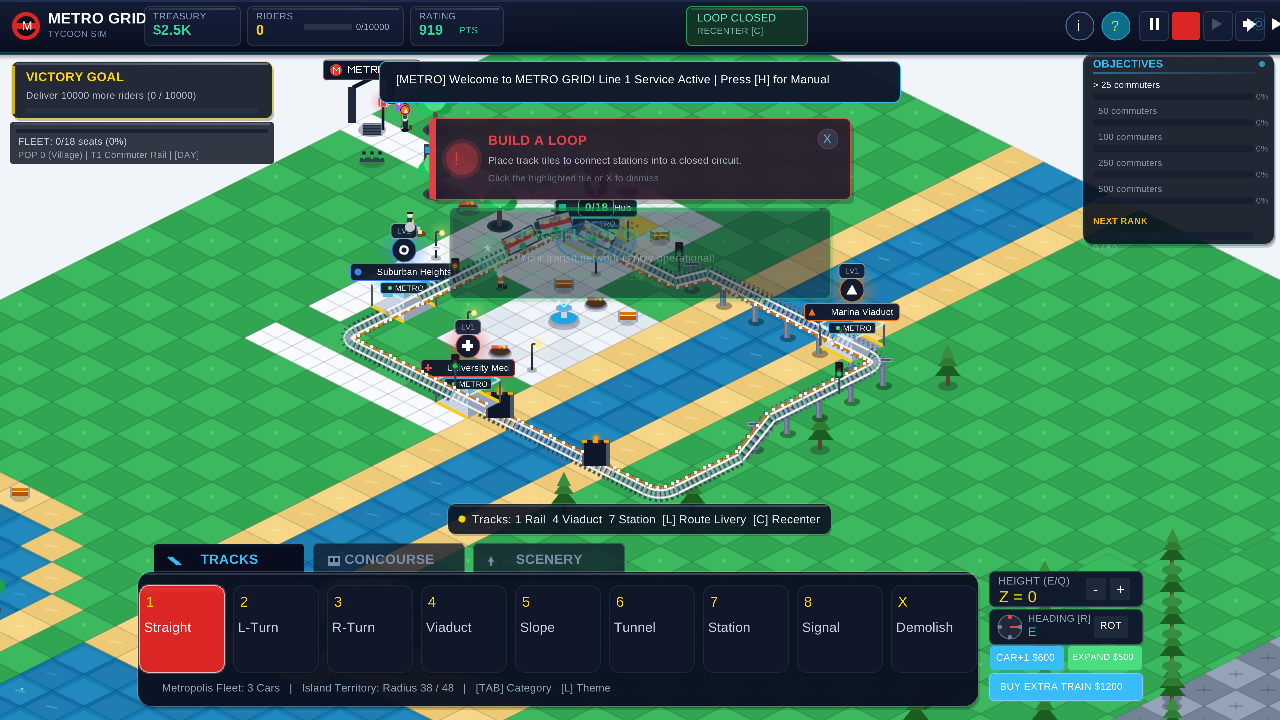
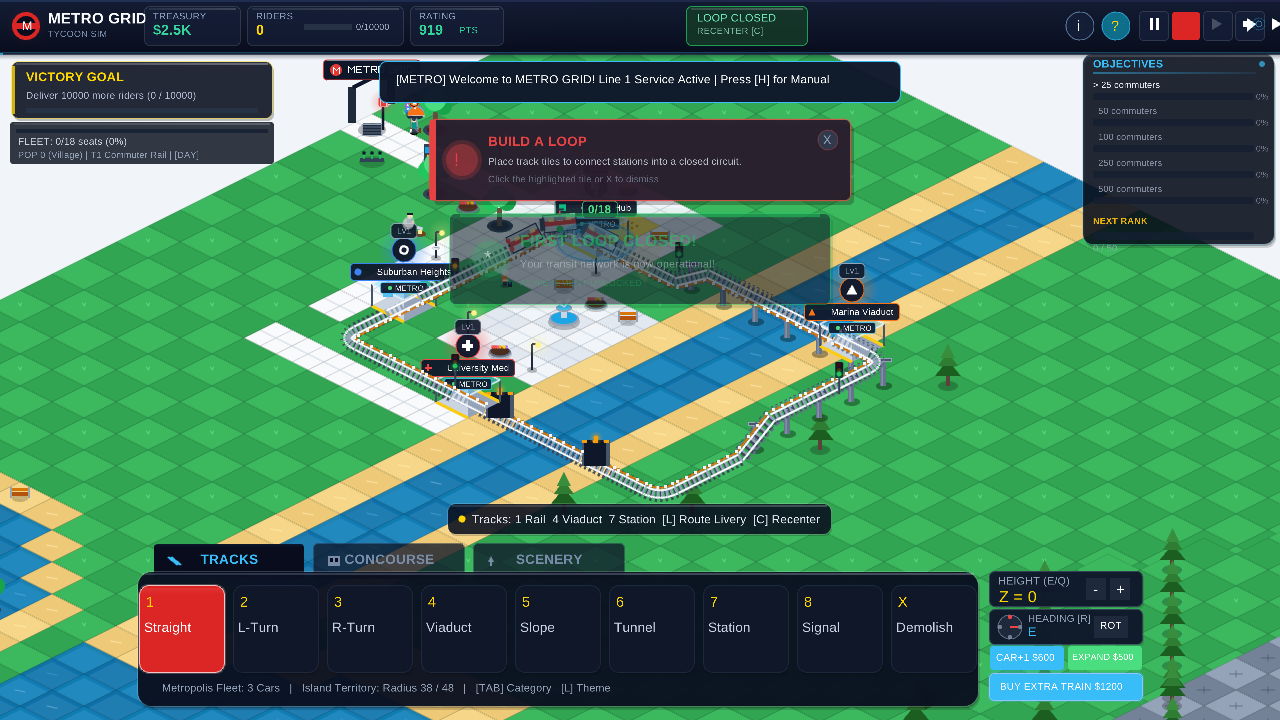
Loop 76: RCT commuter rain umbrellas, dynamic tropical storm weather, and procedural thunder rumble

diff --git a/raylib/src/game.cpp b/raylib/src/game.cpp
@@ -16,8 +16,9 @@ const Game::NaturalEvent Game::EVENTS[] = {
     {"Calm Sunday",      "Peaceful day. Half the riders, but +x2 fare bonus", 25.0f, 0.5f, 2.0f, {100, 200, 255, 255}},
     {"City Festival",    "Festival downtown! x2 riders rush to the party!", 18.0f, 2.0f, 1.2f, {255, 50, 150, 255}},
     {"Train Strike",     "Workers protest! Half riders, half fares for 15s", 15.0f, 0.5f, 0.5f, {200, 50, 50, 255}},
-    {"Tourist Season",   "Tourists flood in! x1.8 riders, x1.3 fares", 22.0f, 1.8f, 1.3f, {50, 200, 100, 255}},
-    {"Late Night Quiet", "After midnight calm. Few riders, but x3 fare bonus", 20.0f, 0.3f, 3.0f, {80, 80, 160, 255}},
+    {"Tourist Season",     "Tourists flood in! x1.8 riders, x1.3 fares", 22.0f, 1.8f, 1.3f, {50, 200, 100, 255}},
+    {"Late Night Quiet",   "After midnight calm. Few riders, but x3 fare bonus", 20.0f, 0.3f, 3.0f, {80, 80, 160, 255}},
+    {"Tropical Rainstorm", "Sudden downpour! Commuters pop umbrellas, +25% transit ridership", 22.0f, 1.7f, 1.3f, {56, 189, 248, 255}},
 };
 
 void Game::Init() {
@@ -2066,26 +2067,37 @@ void Game::Update(float dt) {
     float investedTrains = (float)GetExtraTrainCount() * 1200.0f;
     cachedStats.parkValue = economy.balance + investedTracks + investedStations + investedCars + investedTrains + (float)economy.totalDelivered * 5.0f;
 
-    // 7b. Weather effects: rain during rush hour, cherry blossoms during calm
+    // 7b. Weather effects: rain during rush hour / storm, umbrellas, cherry blossoms during calm
     if (state == STATE_PLAYING && !isPaused) {
+        bool isRaining = rushHourActive || (activeEvent == 6);
+        peeps.SetRaining(isRaining);
+
         static float weatherTimer = 0.0f;
         weatherTimer += dt;
-        if (rushHourActive && weatherTimer > 0.3f) {
-            // Rain during rush hour
-            particles.SpawnRain(GetScreenWidth(), GetScreenHeight(), 8);
+        if (isRaining && weatherTimer > 0.25f) {
+            // Rain particle downpour
+            particles.SpawnRain(GetScreenWidth(), GetScreenHeight(), 10);
             weatherTimer = 0.0f;
-        } else if (!rushHourActive && weatherTimer > 1.5f && parkRating > 70.0f) {
+
+            // Wet rail spray mist when train runs at speed
+            if (train.GetSpeedKmh() > 15.0f) {
+                Vector3 tPos = train.GetLocomotivePos();
+                particles.SpawnSmoke(Vector3{tPos.x, tPos.y, tPos.z * 0.5f}, 1);
+            }
+        } else if (!isRaining && weatherTimer > 1.5f && parkRating > 70.0f) {
             // Cherry blossom petals when rating is good
             particles.SpawnPetals(GetScreenWidth(), GetScreenHeight(), 3);
             weatherTimer = 0.0f;
         }
 
-        // Ambient Soundscape (nature & coastal audio immersion)
+        // Ambient Soundscape (nature, coastal, crickets & thunder audio immersion)
         static float ambientTimer = 0.0f;
         ambientTimer += dt;
         if (ambientTimer >= 5.5f) {
             ambientTimer = 0.0f;
-            if (nightMode) {
+            if (isRaining) {
+                AudioManager::Play(SFX_THUNDER_ROLL, 0.45f);
+            } else if (nightMode) {
                 AudioManager::Play(SFX_NIGHT_CRICKET, 0.28f);
             } else {
                 Vector2 cGrid = Iso::ScreenToGrid(Vector2{(float)GetScreenWidth() * 0.5f, (float)GetScreenHeight() * 0.5f}, cameraPos, zoom, 0.0f);
@@ -2114,8 +2126,12 @@ void Game::Update(float dt) {
                     eventTimer = EVENTS[activeEvent].duration;
                     ShowToast(TextFormat("[EVENT] %s: %s", EVENTS[activeEvent].name, EVENTS[activeEvent].desc),
                               EVENTS[activeEvent].color, 4.0f);
-                    AudioManager::Play(SFX_UPGRADE_FANFARE, 0.8f);
-                    particles.SpawnConfetti(train.GetLocomotivePos(), 25);
+                    if (activeEvent == 6) {
+                        AudioManager::Play(SFX_THUNDER_ROLL, 0.70f);
+                    } else {
+                        AudioManager::Play(SFX_UPGRADE_FANFARE, 0.8f);
+                        particles.SpawnConfetti(train.GetLocomotivePos(), 25);
+                    }
                 }
             }
         }

diff --git a/raylib/src/peep.cpp b/raylib/src/peep.cpp
@@ -69,6 +69,18 @@ void CommuterManager::SpawnCommuter() {
     };
     c.balloonColor = bColors[rand() % 5];
 
+    // RCT style rain umbrella
+    Color uColors[] = {
+        Color{239, 68, 68, 255},  // Ruby Red
+        Color{56, 189, 248, 255}, // Sky Blue
+        Color{250, 204, 21, 255}, // Canary Yellow
+        Color{34, 197, 94, 255},  // Emerald Green
+        Color{168, 85, 247, 255}, // Purple
+        Color{249, 115, 22, 255}  // Tangerine
+    };
+    c.umbrellaColor = uColors[rand() % 6];
+    c.hasUmbrella = isRaining;
+
     // Assign Mini Metro Destination Shape (Circle, Triangle, Square, Cross)
     int rShape = 1 + (rand() % 4);
     c.targetShape = static_cast<StationShape>(rShape);
@@ -92,6 +104,18 @@ void CommuterManager::SpawnCommuter() {
     }
 
     commuters.push_back(c);
+}
+
+void CommuterManager::SetRaining(bool raining) {
+    if (isRaining != raining) {
+        isRaining = raining;
+        for (auto& c : commuters) {
+            c.hasUmbrella = isRaining;
+            if (isRaining && (rand() % 100 < 40)) {
+                c.thought = "Popped my umbrella open! Nice and dry.";
+            }
+        }
+    }
 }
 
 void CommuterManager::AlightPassengers(int count, Vector2 stationPos) {
@@ -385,15 +409,37 @@ void CommuterManager::Draw(Vector2 camOffset, float zoom) const {
             DrawTriangle({balloonPos.x, balloonPos.y + 4.0f * zoom}, {balloonPos.x - 1.2f * zoom, balloonPos.y + 5.5f * zoom}, {balloonPos.x + 1.2f * zoom, balloonPos.y + 5.5f * zoom}, c.balloonColor);
         }
 
+        // RollerCoaster Tycoon Open Rain Umbrella
+        if (c.hasUmbrella) {
+            float umbBob = sinf(c.walkTimer * 2.2f) * 0.8f * zoom;
+            Vector2 handlePos = { sPos.x + 3.0f * zoom, sPos.y - bodyH * 0.45f + bob };
+            Vector2 apexPos = { sPos.x + 1.2f * zoom, sPos.y - bodyH - 8.5f * zoom + bob + umbBob };
+
+            // Metallic umbrella rod
+            DrawLineEx(handlePos, apexPos, 1.2f * zoom, Color{148, 163, 184, 255});
+            // Handle hook
+            DrawCircleLines((int)handlePos.x, (int)handlePos.y + 1, 1.5f * zoom, Color{100, 116, 139, 255});
+
+            // Canopy dome
+            float canopyW = 8.5f * zoom;
+            DrawEllipse((int)apexPos.x, (int)apexPos.y, canopyW, 3.5f * zoom, Color{30, 41, 59, 220});
+            DrawCircleSector(apexPos, canopyW, 180.0f, 360.0f, 16, c.umbrellaColor);
+            DrawLineEx({apexPos.x - canopyW, apexPos.y}, {apexPos.x + canopyW, apexPos.y}, 1.0f * zoom, Color{255, 255, 255, 120});
+            DrawLineEx(apexPos, {apexPos.x - canopyW * 0.5f, apexPos.y}, 0.8f * zoom, Color{255, 255, 255, 100});
+            DrawLineEx(apexPos, {apexPos.x + canopyW * 0.5f, apexPos.y}, 0.8f * zoom, Color{255, 255, 255, 100});
+            DrawCircle((int)apexPos.x, (int)(apexPos.y - canopyW + 1.0f * zoom), 1.2f * zoom, Color{226, 232, 240, 255});
+        }
+
         // Floating Thought & Destination Shape Speech Bubble
+        float badgeLift = c.hasUmbrella ? 10.0f * zoom : 0.0f;
         float floatY = sinf(c.walkTimer * 2.0f) * 1.5f * zoom;
-        Vector2 badgePos = { sPos.x, sPos.y - bodyH - 12.0f * zoom + bob + floatY };
+        Vector2 badgePos = { sPos.x, sPos.y - bodyH - 12.0f * zoom + bob + floatY - badgeLift };
         Color badgeColor = GetShapeColor(c.targetShape);
 
         // Speech bubble pointer tail
-        Vector2 tailTip = { sPos.x, sPos.y - bodyH - 6.0f * zoom + bob };
-        Vector2 b1 = { sPos.x - 2.5f * zoom, sPos.y - bodyH - 9.0f * zoom + bob };
-        Vector2 b2 = { sPos.x + 2.5f * zoom, sPos.y - bodyH - 9.0f * zoom + bob };
+        Vector2 tailTip = { sPos.x, sPos.y - bodyH - 6.0f * zoom + bob - badgeLift };
+        Vector2 b1 = { sPos.x - 2.5f * zoom, sPos.y - bodyH - 9.0f * zoom + bob - badgeLift };
+        Vector2 b2 = { sPos.x + 2.5f * zoom, sPos.y - bodyH - 9.0f * zoom + bob - badgeLift };
         DrawTriangle(tailTip, b2, b1, Color{15, 23, 42, 235});
 
         // Speech bubble circular body

diff --git a/raylib/src/peep.hpp b/raylib/src/peep.hpp
@@ -25,6 +25,8 @@ struct Commuter {
     bool hasBriefcase = true;
     bool hasBalloon = false;
     Color balloonColor = Color{239, 68, 68, 255};
+    bool hasUmbrella = false;
+    Color umbrellaColor = Color{56, 189, 248, 255};
     std::string thought = "Tapped my transit card, waiting for Line 1!";
 };
 
@@ -36,6 +38,9 @@ public:
     void Update(float dt, MetroTrain& train, std::vector<MetroTrain>* extraTrains, ParticleSystem& particles, float& outSatisfaction, int& outAngryLeaves, std::vector<StationMess>& outMesses);
     void CheckSceneryInteractions(const SceneryType scenery[GRID_SIZE][GRID_SIZE], ParticleSystem& particles, float& outFunds, std::vector<StationMess>& outMesses);
     void Draw(Vector2 camOffset, float zoom) const;
+
+    void SetRaining(bool raining);
+    bool IsRaining() const { return isRaining; }
 
     int GetTotalCommuters() const { return (int)commuters.size(); }
     int GetQueueCount() const { return (int)queueCommuters.size(); }
@@ -74,6 +79,7 @@ private:
     float spawnTimer = 0.0f;
     float spawnInterval = 1.9f;
     int maxQueueCap = 18;
+    bool isRaining = false;
 
     // Overcrowding Mini-Metro style clock
     bool overcrowdActive = false;

diff --git a/raylib/test_capture.cpp b/raylib/test_capture.cpp
@@ -90,6 +90,7 @@ public:
     void GiveCash(double amt) { economy.balance = (float)amt; }
     void SetBest(int b) { bestSessionRiders = b; }
     void ForceRush(bool on) { rushHourActive = on; }
+    void ForceStorm(bool on) { activeEvent = on ? 6 : -1; eventTimer = 22.0f; }
     void ForcePause(bool on) { isPaused = on; }
     void ForceResultsScreen() { economy.totalDelivered = 512; week = 3; state = STATE_VICTORY; }
     void ForceGameOverScreen() { economy.totalDelivered = 343; state = STATE_GAME_OVER; }
@@ -184,10 +185,20 @@ int main() {
 
     // 0c. Arcade PAUSE overlay + RUSH HOUR banner (flickering juice)
     game.ForceRush(true);
+    game.Step(0.05f);
     game.Render();
     TakeScreenshot("test_metro_rush_banner.png");
     std::cout << "Captured test_metro_rush_banner.png\n";
     game.ForceRush(false);
+
+    // 0d. Tropical Rainstorm Event & RCT Umbrellas
+    game.ForceStorm(true);
+    game.Step(0.1f);
+    game.Render();
+    TakeScreenshot("test_metro_rain_umbrellas.png");
+    std::cout << "Captured test_metro_rain_umbrellas.png\n";
+    game.ForceStorm(false);
+
     game.ForcePause(true);
     game.Render();
     TakeScreenshot("test_metro_paused.png");

diff --git a/raylib/src/audio.cpp b/raylib/src/audio.cpp
@@ -301,6 +301,26 @@ void Init() {
         sounds[SFX_MORNING_BIRD] = CreateProceduralSound(buf, sr);
     }
 
+    // 19. SFX_THUNDER_ROLL: Distant rolling low atmospheric thunder rumble (0.85s)
+    {
+        int n = (int)(sr * 0.85f);
+        std::vector<float> buf(n);
+        for (int i = 0; i < n; ++i) {
+            float t = (float)i / sr;
+            float attack = std::min(1.0f, t * 15.0f);
+            float decay = expf(-2.8f * t);
+            float env = attack * decay;
+            // Low sub-harmonic sine waves (52 Hz + 74 Hz + 38 Hz)
+            float sub = sinf(2.0f * PI * 52.0f * t) * 0.5f
+                      + sinf(2.0f * PI * 74.0f * t) * 0.3f
+                      + sinf(2.0f * PI * 38.0f * t) * 0.2f;
+            // Filtered rolling rumble noise
+            float noise = (((float)rand() / RAND_MAX) * 2.0f - 1.0f) * 0.45f;
+            buf[i] = (sub + noise) * env * 0.6f;
+        }
+        sounds[SFX_THUNDER_ROLL] = CreateProceduralSound(buf, sr);
+    }
+
     initialized = true;
 }
 

diff --git a/raylib/src/audio.hpp b/raylib/src/audio.hpp
@@ -20,7 +20,8 @@ enum SfxType {
     SFX_TRAIN_HORN,         // Two-tone pneumatic electric train departure horn
     SFX_OCEAN_AMBIENT,      // Gentle rolling ocean surf swell
     SFX_NIGHT_CRICKET,      // Nighttime crickets chirping
-    SFX_MORNING_BIRD        // Cheerful morning park songbird chirp
+    SFX_MORNING_BIRD,       // Cheerful morning park songbird chirp
+    SFX_THUNDER_ROLL        // Distant rolling atmospheric thunder rumble
 };
 
 namespace AudioManager {

diff --git a/raylib/src/game.hpp b/raylib/src/game.hpp
@@ -226,7 +226,7 @@ protected:
         Color color;
     };
     static const NaturalEvent EVENTS[];
-    static const int EVENT_COUNT = 6;
+    static const int EVENT_COUNT = 7;
     int activeEvent = -1;       // index into EVENTS[], -1 = none
     float eventTimer = 0.0f;
     float eventCooldown = 0.0f; // minimum time between events
